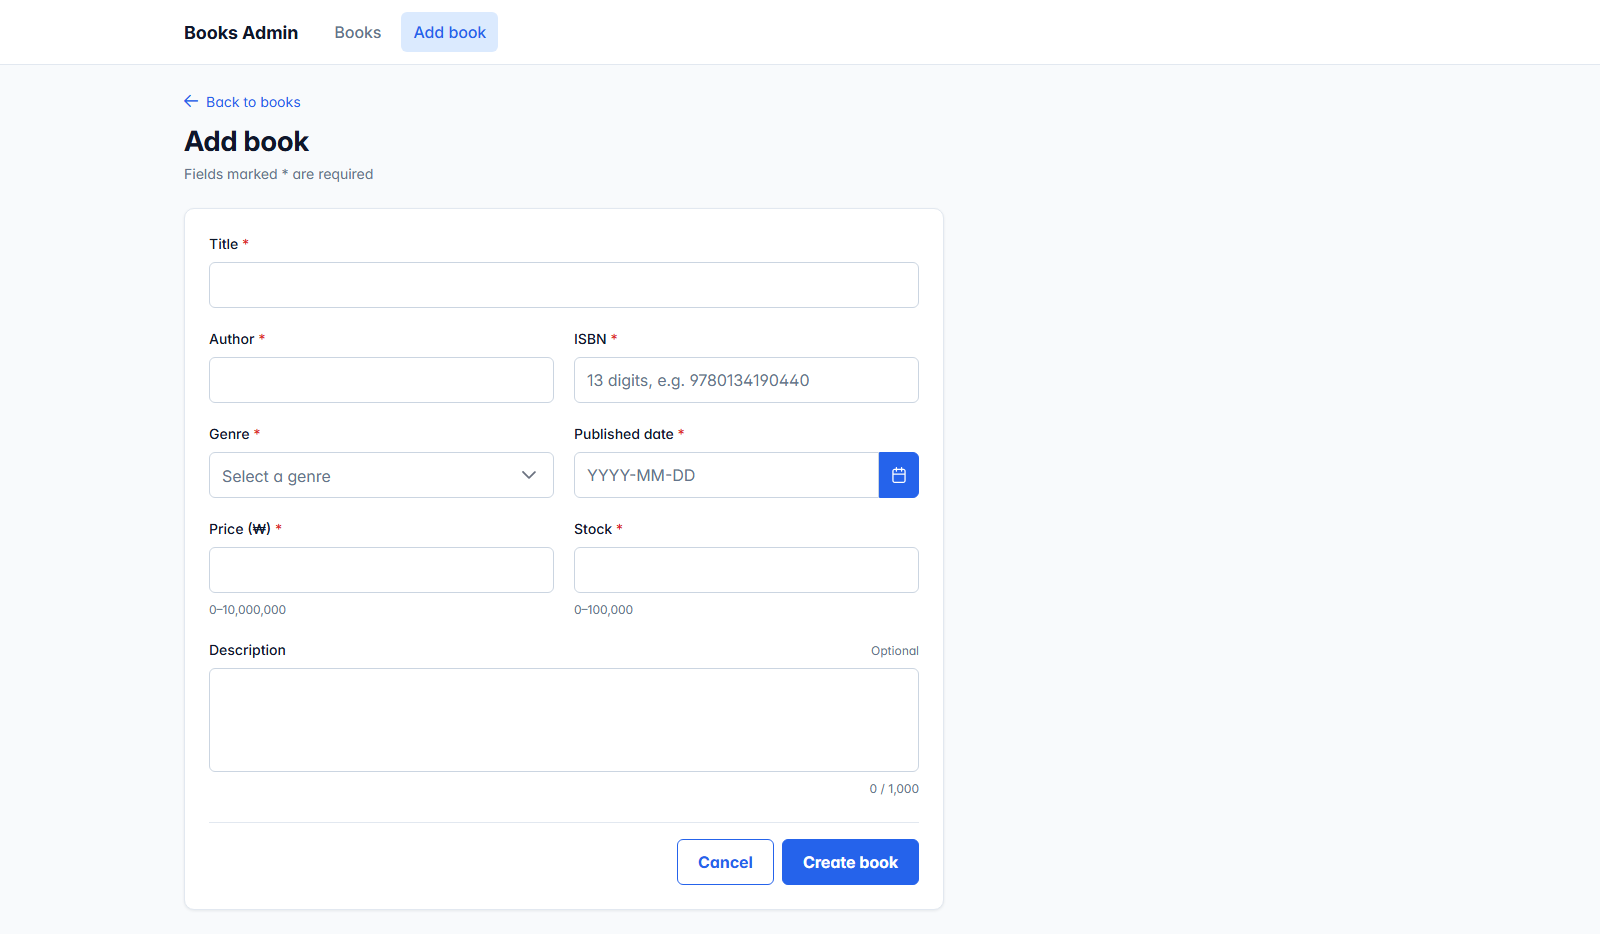
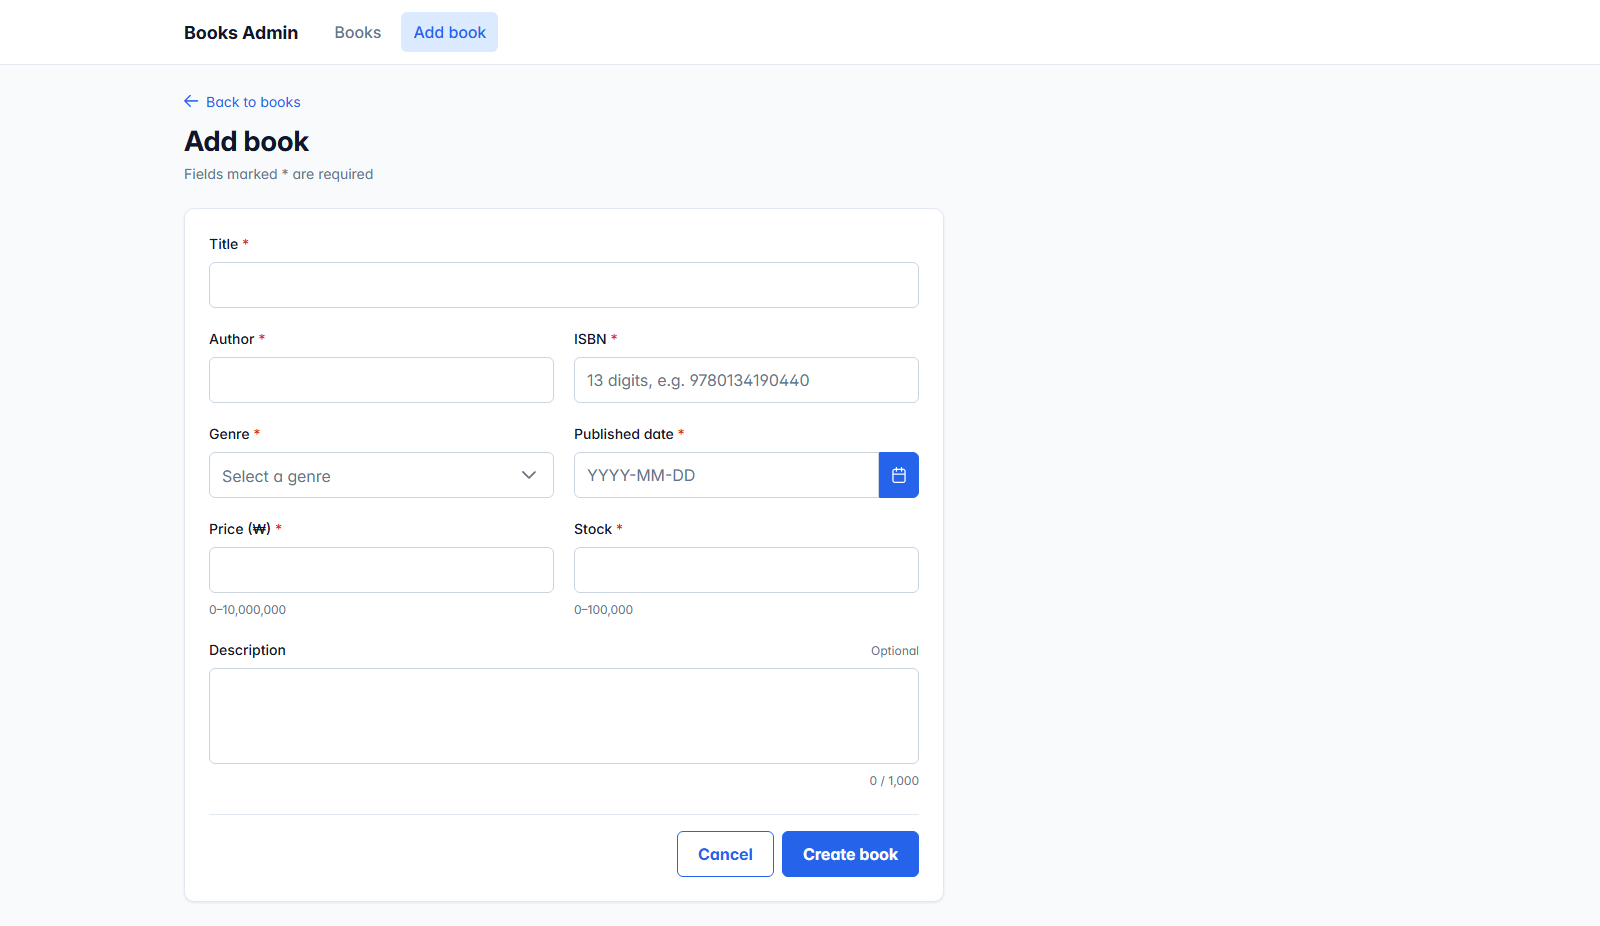
QA report from the live demo + build report for 4859edf
- Full Playwright run (71 tests incl. mutation, all widths, Edit + 1440) against
  https://ai-frontend-training.vercel.app: 71 / 71 passed
- HTML report published on the demo at /qa-report/index.html (QA review #4)
  and copied to docs/playwright-report
- Build report: build commit 4859edf, design-review fixes, 46 QA cases,
  mutation tests may run on the demo (QA review #1)

diff --git a/frontend-next/docs/build-report.md b/frontend-next/docs/build-report.md
@@ -7,35 +7,44 @@ from training Step 8 Part C. Same content as the build report on the homework pa
 | | |
 |---|---|
 | Branch | `main` — https://github.com/nikkyhan/ai-frontend-training |
-| Commit | [`58ac71b`](https://github.com/nikkyhan/ai-frontend-training/commit/58ac71ba2a73408a39f9a248432016a81ff361d7) — the build handed over; later commits only change docs |
+| Commit | [`4859edf`](https://github.com/nikkyhan/ai-frontend-training/commit/4859edf62689f9736605d5459156cd083822583b) — the build handed over; later commits only add docs and the test report |
 | Demo | https://ai-frontend-training.vercel.app (frontend, Vercel) |
 | API | https://ai-frontend-training.onrender.com (Go backend, Render free tier) |
-| Date | October 8, 2026 |
+| Test report | https://ai-frontend-training.vercel.app/qa-report/index.html (opens in the browser) |
+| Date | October 9, 2026 |
 
 ## 2. TL tasks covered
 - TL | AI Frontend Training — Building Frontend with Claude Code (for Backend Developers): Homework 1 and Homework 2
 
 ## 3. What changed (plain words)
-A new **Books** admin area:
+A **Books** admin area:
 - **List** of books you can search (title, author, ISBN), filter by genre, sort and page through (10/20/50) —
   a table on computers, cards on tablets and phones.
 - **Add book** and **Edit book** forms with the same checks as the server.
 - **Book details** page with Edit and Delete.
 - **Delete** always asks "are you sure?" first.
-- **Dark mode** button in the header.
-- A new Go API (`backend-go`) behind it.
+- Light theme only, as in the design (the dark-mode button was removed on October 9).
+- A Go API (`backend-go`) behind it.
 
 ## 4. Fixed issues
-None from QA yet. Fixed after the code review (October 8, 2026):
-- Dates now use the WM English format with the full month name ("October 26, 2015")
+None from QA. Fixed after the design review (October 9, 2026):
+- Filled buttons are darker blue / red so white text passes 4.5:1 contrast
+- One colour per role; every field and text button 46px; nav 40px; pager and icon buttons 44px
+- Long titles and authors without spaces wrap instead of widening the page
+- Screen readers hear "required" and "invalid" on every required field, linked to its error message
+- A too-long description is flagged while typing
+
+Fixed after the code review (October 8, 2026):
+- Dates use the WM English format with the full month name ("October 26, 2015")
 - A missing book (404) is no longer requested twice before "Book not found" shows
 - QA test cases marked Positive / Negative with the correct count
 
 Fixed during development:
 - Invisible "Add book" button text (CSS `@layer` conflict with PrimeReact)
-- Dark mode lost after page load (hydration mismatch)
+- Theme lost after page load (hydration mismatch)
 - Render build failing with "no Go files" (added `backend-go/main.go`)
 - Vercel build calling `localhost` instead of the API (added `.env.production`)
+- Vercel branch URL blocked by CORS (API allows this project's Vercel URLs)
 
 ## 5. Test accounts / roles
 No login in this build. Anyone who opens the link can use every page.
@@ -43,6 +52,8 @@ No login in this build. Anyone who opens the link can use every page.
 ## 6. Data QA must prepare
 Nothing. The backend starts with the 12 books from the Figma design and **resets on every restart**.
 To test the "No books yet" state, start the backend with `SEED=false`.
+Create / edit / delete tests can run on the demo (they delete only the book they create):
+`PLAYWRIGHT_BASE_URL=https://ai-frontend-training.vercel.app E2E_MUTATION=true npx playwright test`
 
 ## 7. What to test
 1. Open the list: 12 books, 10 per page, page 2 has 2.
@@ -50,13 +61,14 @@ To test the "No books yet" state, start the backend with `SEED=false`.
 3. Genre filter "Fiction" → 3 books.
 4. Sort by price (column header on desktop, "Sort by" dropdown on phone).
 5. Add a book with all fields → appears in list; try the same ISBN again → error under ISBN.
-6. Try to break the form: empty, 1-letter title, 12-digit ISBN, future date, 1,001-character description.
+6. Try to break the form: empty, 1-letter title, 12-digit ISBN, future date, 1,001-character description
+   (the description error shows while typing).
 7. Edit a book → values pre-filled → change → list shows change.
 8. Delete from the list and from the details page.
 9. Stop the backend → list shows "Could not load books" with Try again.
-10. Check 1920 / 1366 / 768 / 375 and dark mode.
+10. Check 1440 / 768 / 375 on list, create, details and edit.
 
-Full cases: `docs/qa-test-cases.md` — 42 cases (24 positive, 17 negative, 1 not applicable).
+Full cases: `docs/qa-test-cases.md` — 46 cases (24 positive, 21 negative, 1 not applicable).
 
 ## 8. Known issues / not covered
 - No login, roles or permissions (training scope).
@@ -64,23 +76,23 @@ Full cases: `docs/qa-test-cases.md` — 42 cases (24 positive, 17 negative, 1 no
 - Free Render backend sleeps after 15 minutes idle; the first request then takes about 1 minute.
 - Tested on Chromium only (Safari/Firefox not checked).
 - The error box also shows the API's message (kept on purpose — Homework 2 requires visible API errors).
-- Layout follows the Figma design (checked October 8, 2026 at 1440 / 768 / 375); differences kept on purpose are listed in `docs/design-check.md`.
+- Differences from the Figma file kept on purpose (darker buttons, one field height, 44px icon buttons,
+  full-month dates) are listed in `docs/design-check.md`; the Figma file still needs the same values.
 
-## 9. Results of checks (run October 8, 2026, commit `58ac71b`)
+## 9. Results of checks (run October 9, 2026, commit `4859edf`)
 | Check | Result |
 |-------|--------|
 | `npm run lint` | ✅ pass, 0 problems |
 | `npx tsc --noEmit` | ✅ pass, 0 errors |
 | `npm run build` | ✅ pass (6 routes) |
-| `npm run test:e2e` | ✅ 47 / 47 passed (13 feature + 32 responsive/dark + 2 Figma layout switch) |
-| `npm run test:e2e:mutation` | ✅ 4 / 4 passed (local backend only) |
-| Playwright HTML report | `docs/playwright-report/index.html` — full run, 51 / 51 incl. mutation |
-| `go vet ./...` / `go test ./...` | ✅ pass (9 tests) |
-| Live demo, read-only `books.spec.ts` | ✅ 13 / 13 (run on the deployed commit `58ac71b`) |
+| `go vet ./...` / `go test ./...` | ✅ pass |
+| Playwright, local, full run incl. mutation | ✅ 71 / 71 |
+| **Playwright on the live demo, full run incl. mutation** | ✅ **71 / 71** — 13 feature + 4 mutation + 44 screen-size + 2 layout + 5 design-token + 3 audit |
+| Playwright HTML report (live-demo run) | https://ai-frontend-training.vercel.app/qa-report/index.html · copy in `docs/playwright-report/` |
 
 ## 10. Screen sizes and browsers checked
-Chromium at 1920, 1600, 1366, 1280, 1024, 991, 768, 640, 480, 375 (list, create, details) —
-no sideways scroll. Dark mode at 1366 and 375. Screenshots: `docs/screenshots/`.
+Chromium at 1920, 1600, **1440**, 1366, 1280, 1024, 991, **768**, 640, 480, **375** for list, create, details and
+edit — no sideways scroll, on the live demo. Screenshots: `docs/screenshots/`.
 
 ## Conclusion
-Deployed and ready for QA: demo on Vercel, API on Render, code on `main` (build commit `58ac71b`).
+Deployed and ready for QA: demo on Vercel, API on Render, code on `main` (build commit `4859edf`).
